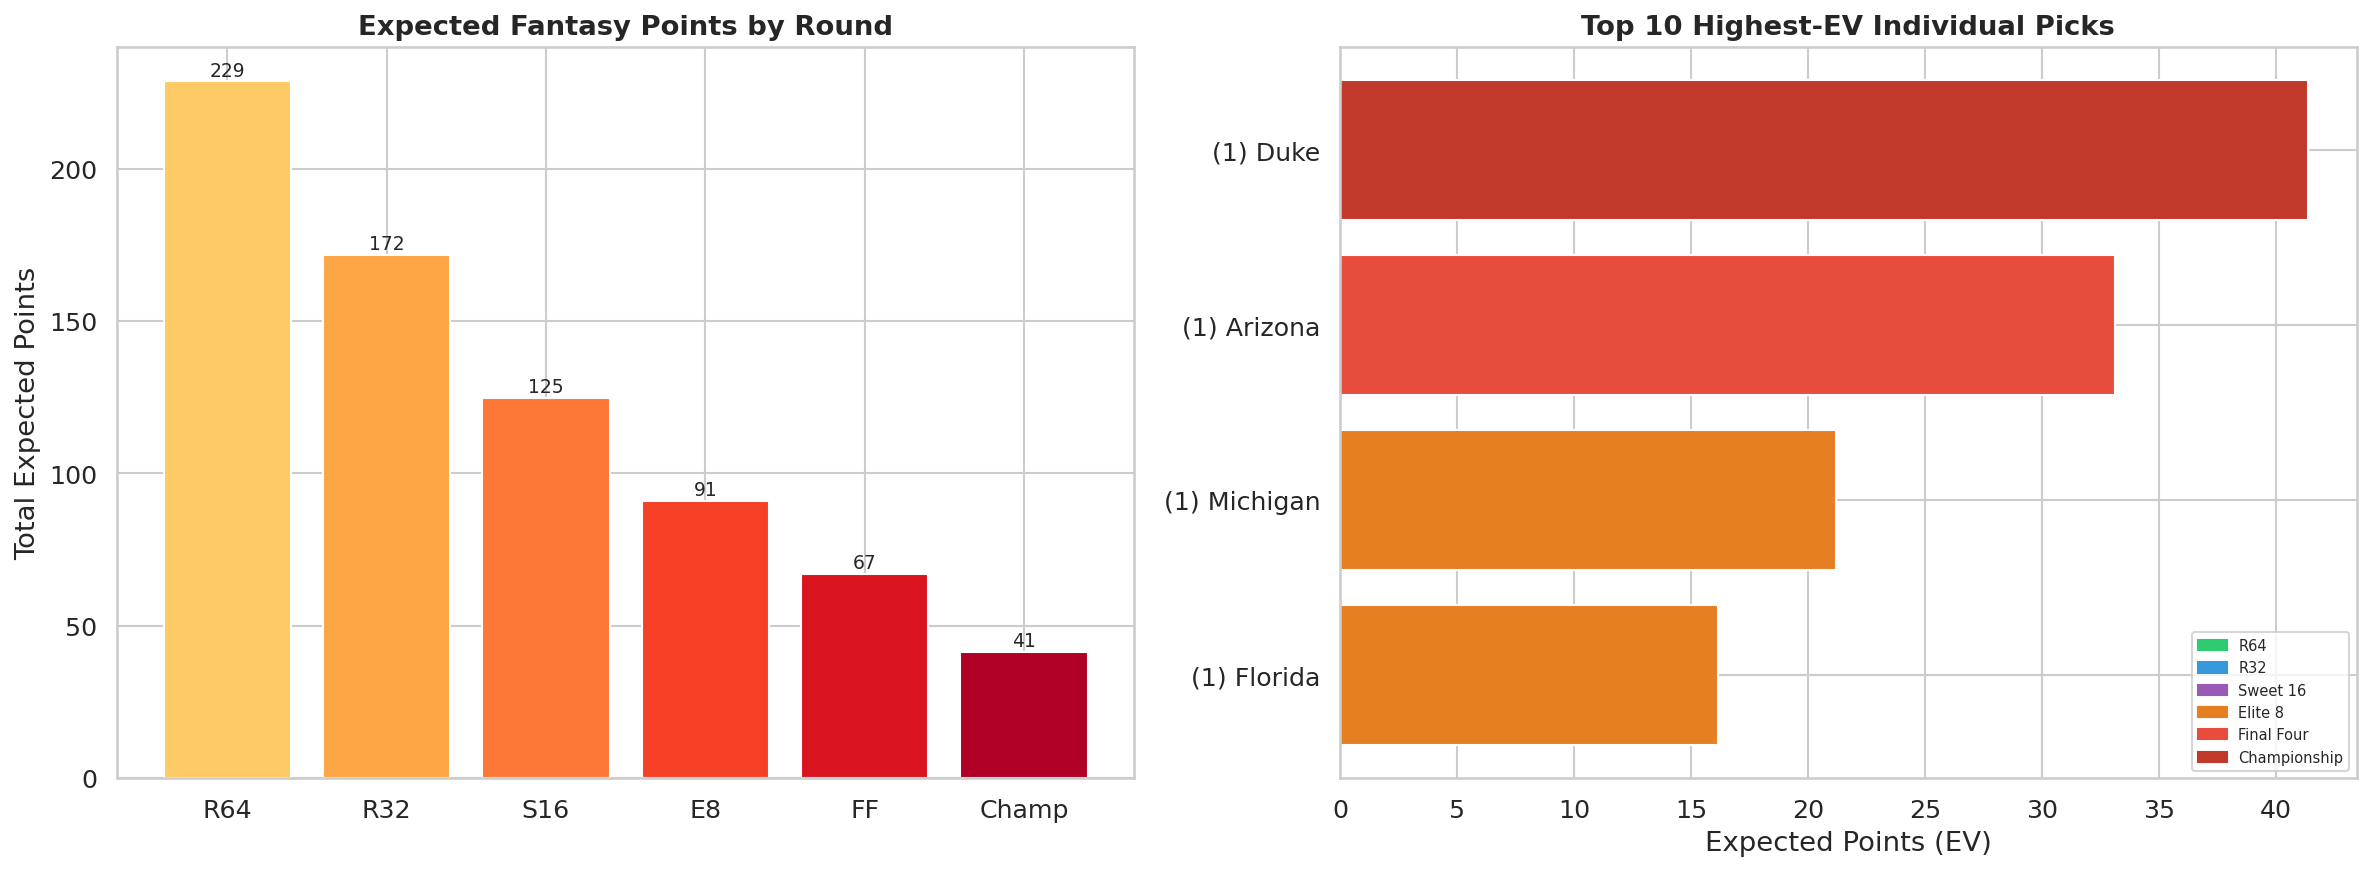
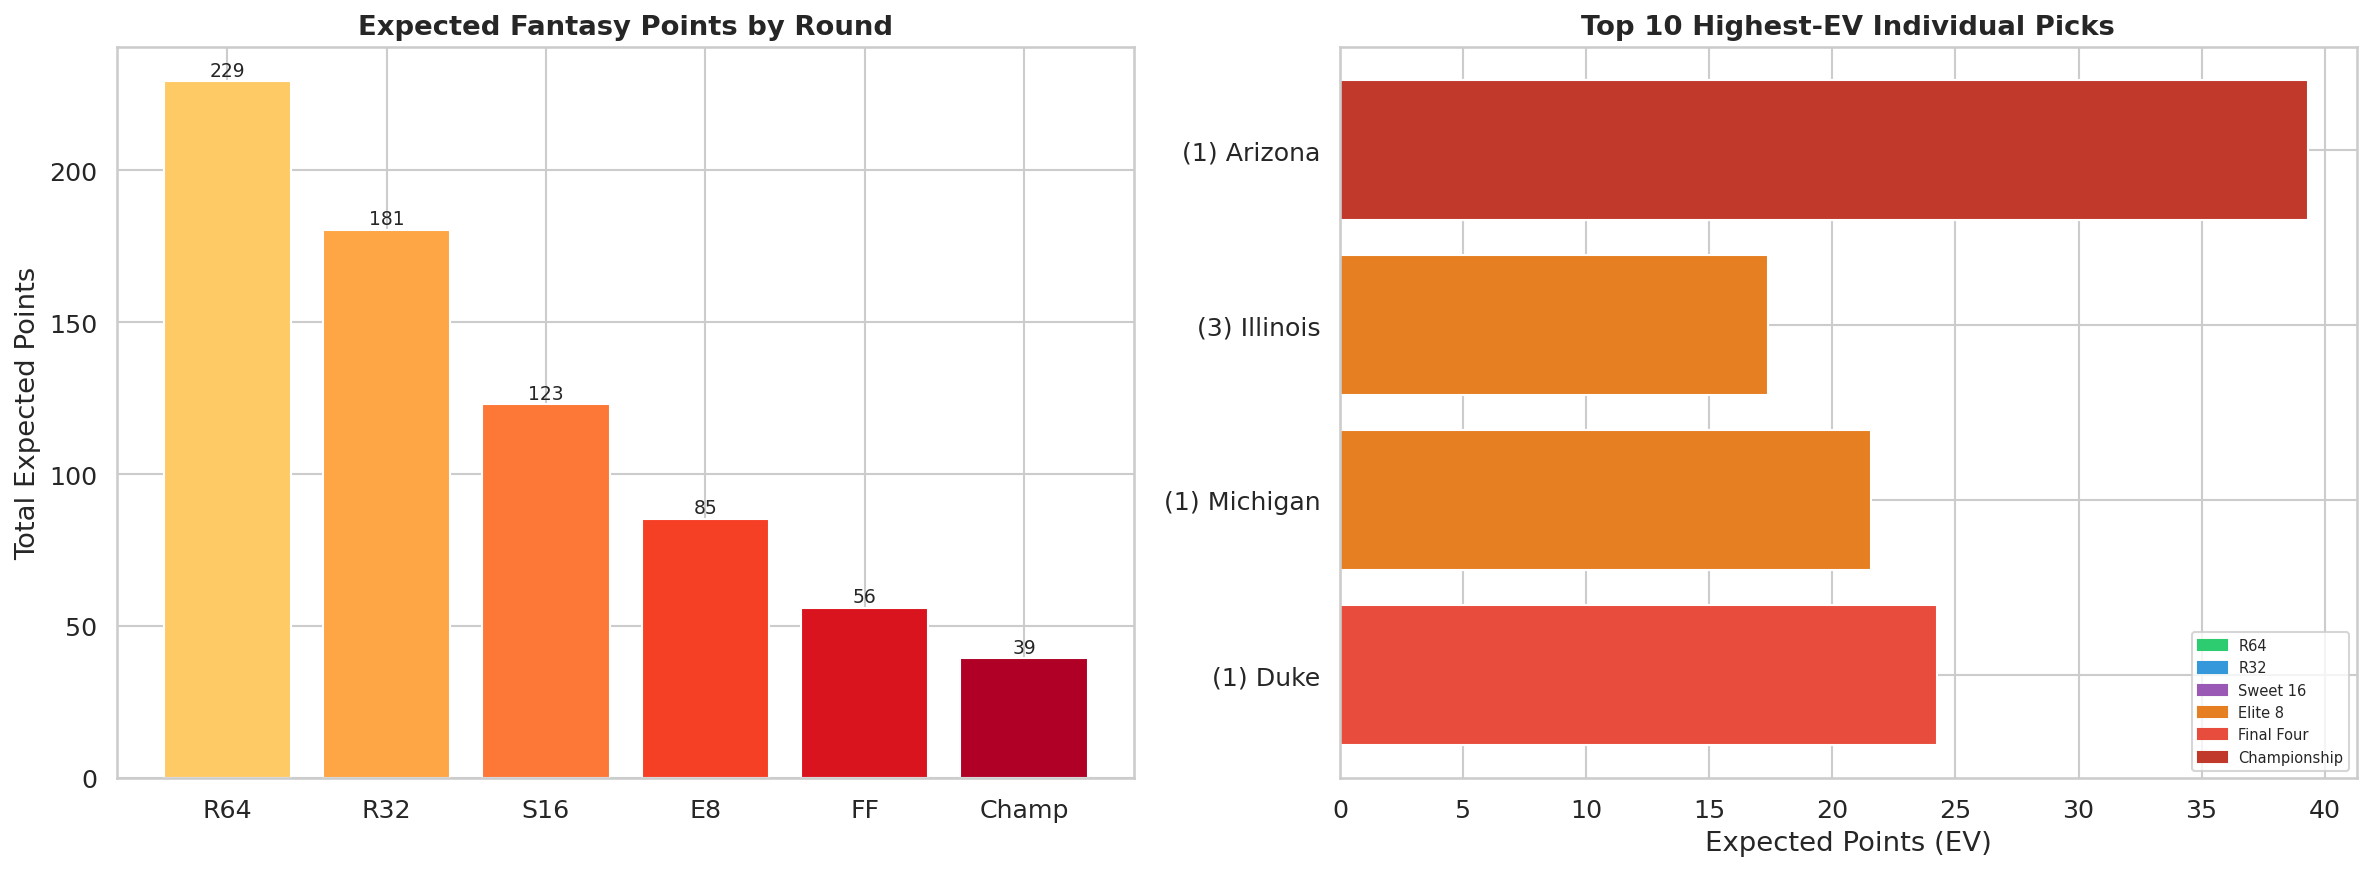
feat: apply tournament performance adjustments to predictions
Teams that underperform expectations in completed tournament games now
get penalized in future round predictions, with compounding effect
across multiple games. Also reduces historical prior dominance, increases
HMM regime scaling, and bumps default leverage weight for less chalky
brackets.

diff --git a/scripts/quant_models.py b/scripts/quant_models.py
@@ -541,7 +541,7 @@ class HistoricalPrior:
 
         n = self.sample_sizes.get(key, 50)
         w_hist = np.sqrt(n)
-        base_weight = 10.0
+        base_weight = 25.0
         w_model = base_weight / max(combined_vol, 1.0)
 
         blended = (w_hist * p_hist + w_model * p_model) / (w_hist + w_model)
@@ -655,8 +655,9 @@ class EVOptimizedSimulator:
         kalman=None,
         n_sims=10000,
         seed=42,
-        leverage_weight=1.0,
+        leverage_weight=1.5,
         locked_results=None,
+        tournament_adjustments=None,
         # Aliases for notebook compatibility
         df=None,
         bracket=None,
@@ -670,6 +671,7 @@ class EVOptimizedSimulator:
         self.seed = seed
         self.leverage_weight = leverage_weight
         self.locked_results = locked_results or {}
+        self.tournament_adjustments = tournament_adjustments or {}
         self.pub = PublicOwnership()
 
         # Build lookups
@@ -689,12 +691,17 @@ class EVOptimizedSimulator:
         net_a = self.net_lookup.get(team_a, 0.0)
         net_b = self.net_lookup.get(team_b, 0.0)
 
+        # Tournament performance adjustment (compounding across games)
+        if self.tournament_adjustments:
+            net_a = net_a + self.tournament_adjustments.get(team_a, 0.0)
+            net_b = net_b + self.tournament_adjustments.get(team_b, 0.0)
+
         # HMM state adjustment
         if self.hmm is not None:
             adj_a = self.hmm.sample_state_adjustment(team_a, rng)
             adj_b = self.hmm.sample_state_adjustment(team_b, rng)
-            net_a = net_a + adj_a * 0.1
-            net_b = net_b + adj_b * 0.1
+            net_a = net_a + adj_a * 0.3
+            net_b = net_b + adj_b * 0.3
 
         margin = (net_a - net_b) / 2
 
@@ -914,6 +921,7 @@ class QuantEnhancedSimulator:
         n_sims=10000,
         seed=42,
         locked_results=None,
+        tournament_adjustments=None,
         # Aliases for notebook compatibility
         df=None,
         bracket=None,
@@ -928,6 +936,7 @@ class QuantEnhancedSimulator:
         self.n_sims = n_sims
         self.seed = seed
         self.locked_results = locked_results or {}
+        self.tournament_adjustments = tournament_adjustments or {}
 
         # Build lookups
         self.net_lookup, self.seed_lookup = _build_lookups(self.kenpom_df)
@@ -944,13 +953,18 @@ class QuantEnhancedSimulator:
         net_a = self.net_lookup.get(team_a, 0.0)
         net_b = self.net_lookup.get(team_b, 0.0)
 
+        # Tournament performance adjustment (compounding across games)
+        if self.tournament_adjustments:
+            net_a = net_a + self.tournament_adjustments.get(team_a, 0.0)
+            net_b = net_b + self.tournament_adjustments.get(team_b, 0.0)
+
         # HMM state adjustment
         if self.hmm is not None:
             adj_a = self.hmm.sample_state_adjustment(team_a, rng)
             adj_b = self.hmm.sample_state_adjustment(team_b, rng)
             # Scale down HMM adjustments to avoid dominating
-            net_a = net_a + adj_a * 0.1
-            net_b = net_b + adj_b * 0.1
+            net_a = net_a + adj_a * 0.3
+            net_b = net_b + adj_b * 0.3
 
         # Base win probability
         margin = (net_a - net_b) / 2

diff --git a/scripts/refresh/refit_models.py b/scripts/refresh/refit_models.py
@@ -175,7 +175,7 @@ def _compute_composite_adjustments(
         delta = actual_margin - exp
         team_deltas.setdefault(team, []).append(delta)
 
-    scale = tournament_weight / 10.0
+    scale = tournament_weight / 5.0
     adjustments = {}
     for team, deltas in team_deltas.items():
         avg_delta = sum(deltas) / len(deltas)
